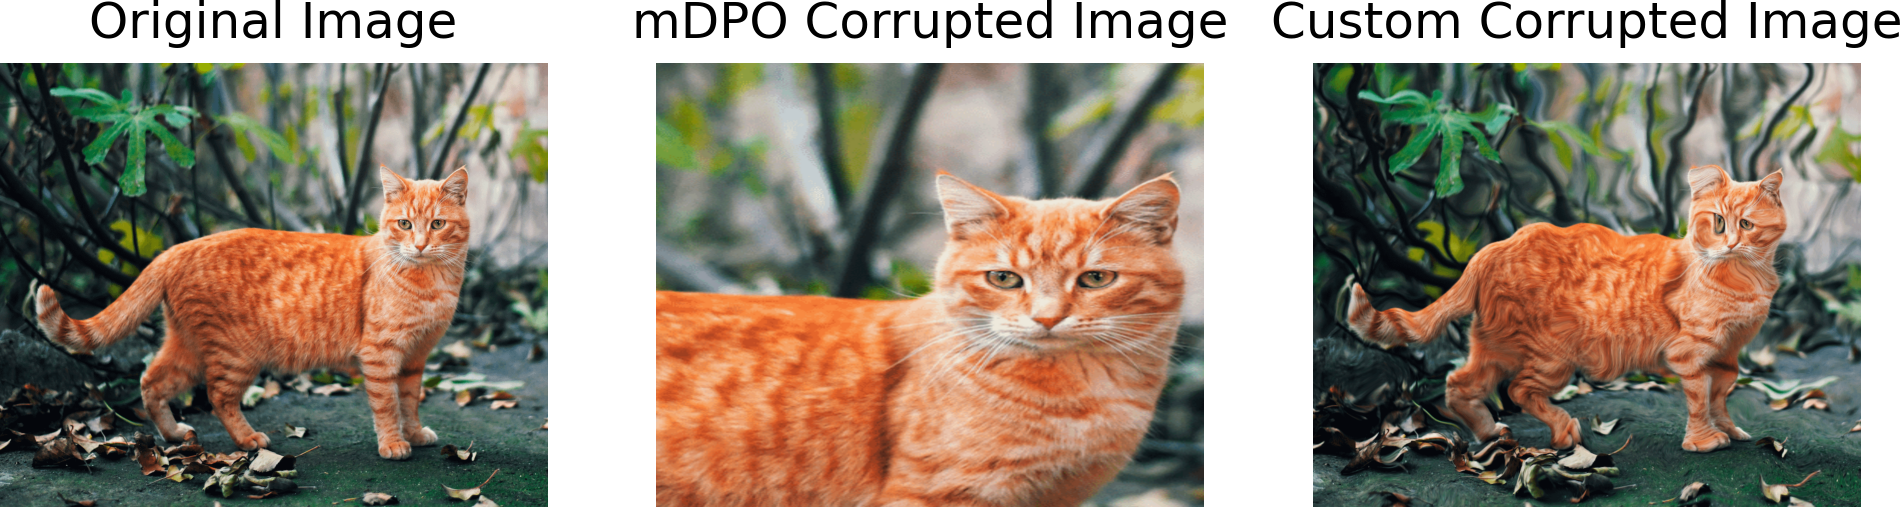
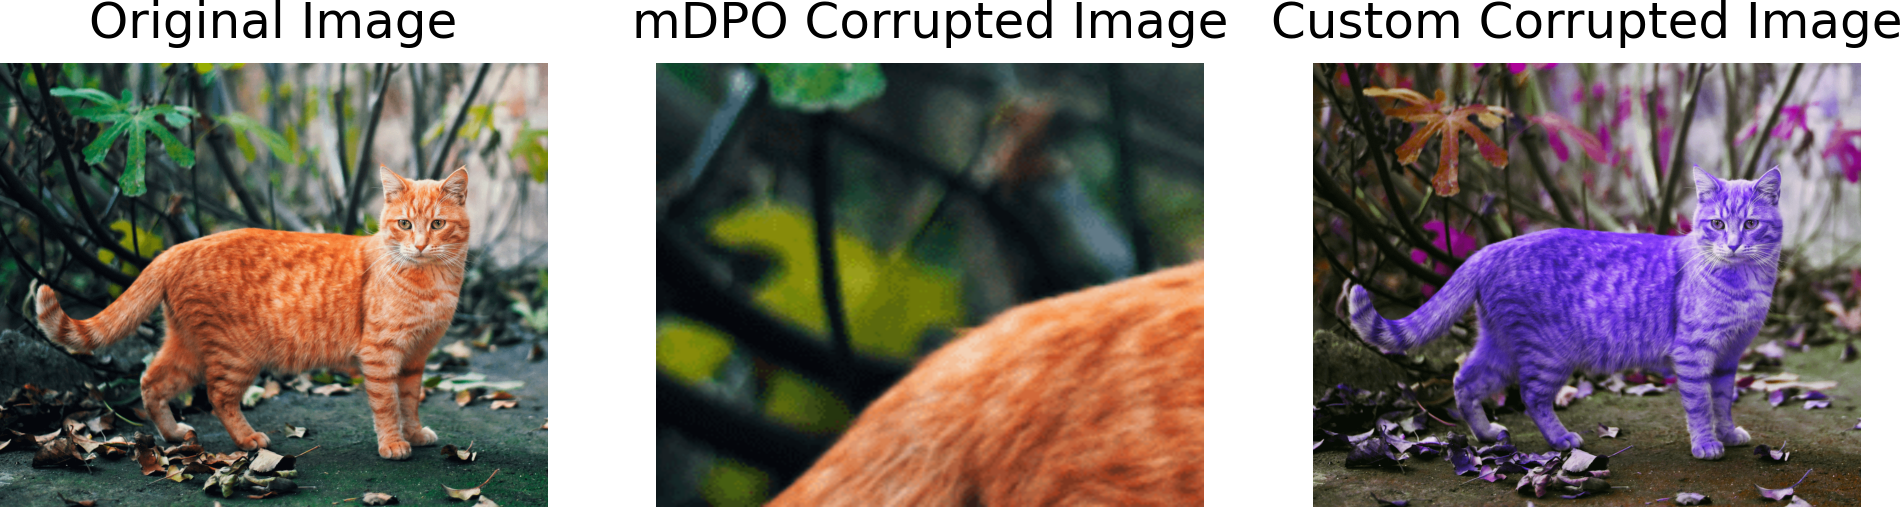
Added few more custom image corruption techniques

diff --git a/mDPO/bunny/custom_corruption.py b/mDPO/bunny/custom_corruption.py
@@ -6,8 +6,10 @@ import warnings
 from peft import PeftModel
 from bunny_utils.util.mm_utils import tokenizer_image_token
 from torchvision.transforms import v2
-from torchvision.transforms.functional import rgb_to_grayscale
+from torchvision.transforms.functional import rgb_to_grayscale, adjust_hue
+import torchvision.transforms.functional as TF
 from torchvision import transforms
+import torch.nn.functional as F
 import numpy as np
 from scipy import ndimage
 import json
@@ -44,6 +46,62 @@ def elastic_transform(image, alpha=1000, sigma=20):
 
     return distorted_tensor
 
+# function to shear an image
+def shear_image(image, shear_deg=40):
+    shearing = v2.RandomAffine(degrees=0, shear=shear_deg)
+    image = shearing(image.squeeze(0)).unsqueeze(0)
+    return image
+
+# function to apply grid distortions on an image
+def grid_distortion(image, num_steps=5, distort_limit=0.3):
+    #assert image.ndim == 4 and image.shape[0] == 1, "Image must be of shape (1, C, H, W)"
+    #B, C, H, W = image.shape
+    device = image.device
+
+    # Squeeze image
+    image = image.squeeze(0)  # Shape: (C, H, W)
+    C, H, W = image.shape
+
+    # Create normalized meshgrid
+    xx = torch.linspace(-1, 1, W, device=device)
+    yy = torch.linspace(-1, 1, H, device=device)
+    grid_y, grid_x = torch.meshgrid(yy, xx, indexing='ij')
+    grid = torch.stack((grid_x, grid_y), 2)  # (H, W, 2)
+
+    # Create distortion grid
+    step_x = W // num_steps
+    step_y = H // num_steps
+    distortion = torch.rand((num_steps + 1, num_steps + 1, 2), device=device) * 2 - 1
+    distortion *= distort_limit
+
+    # Upsample distortion to match H x W
+    distortion = distortion.permute(2, 0, 1).unsqueeze(0)  # (1, 2, grid_y, grid_x)
+    distortion = F.interpolate(distortion, size=(H, W), mode='bicubic', align_corners=True)
+    distortion = distortion.squeeze(0).permute(1, 2, 0)  # (H, W, 2)
+
+    # Apply distortion to grid
+    distorted_grid = grid + distortion
+    distorted_grid = distorted_grid.unsqueeze(0)  # (1, H, W, 2)
+
+    # Grid sample requires (1, C, H, W) and grid in range [-1, 1]
+    warped = F.grid_sample(image.unsqueeze(0), distorted_grid, mode='bilinear', padding_mode='border', align_corners=True)
+
+    return warped
+
+# function to randomly permute the colour channels
+def shuffle_color_channels(image):
+    # Squeeze batch dimension
+    img = image.squeeze(0)  # shape: (C, H, W)
+    
+    # Generate a random permutation of the channel indices
+    perm = torch.randperm(img.size(0))
+    
+    # Shuffle channels
+    img_shuffled = img[perm]
+    
+    # Add back batch dimension
+    return img_shuffled.unsqueeze(0)
+
 # object to convert a PIL image into a Pytorch tensor
 to_tensor = transforms.ToTensor()
 # object to convert a Pytorch tensor into a PIL image
@@ -68,7 +126,10 @@ mdpo_corrupted_image_tensor = corrupt_image(image_tensor)
 mdpo_corrupted_image = to_pil(mdpo_corrupted_image_tensor.squeeze())
 
 # apply custom image corruption
-custom_corrupted_image_tensor = elastic_transform(image_tensor)
+#custom_corrupted_image_tensor = elastic_transform(image_tensor)
+#custom_corrupted_image_tensor = shear_image(image_tensor)
+#custom_corrupted_image_tensor = grid_distortion(image_tensor)
+custom_corrupted_image_tensor = shuffle_color_channels(image_tensor)
 # convert image tensor back back to PIL Image
 custom_corrupted_image = to_pil(custom_corrupted_image_tensor.squeeze())
 
